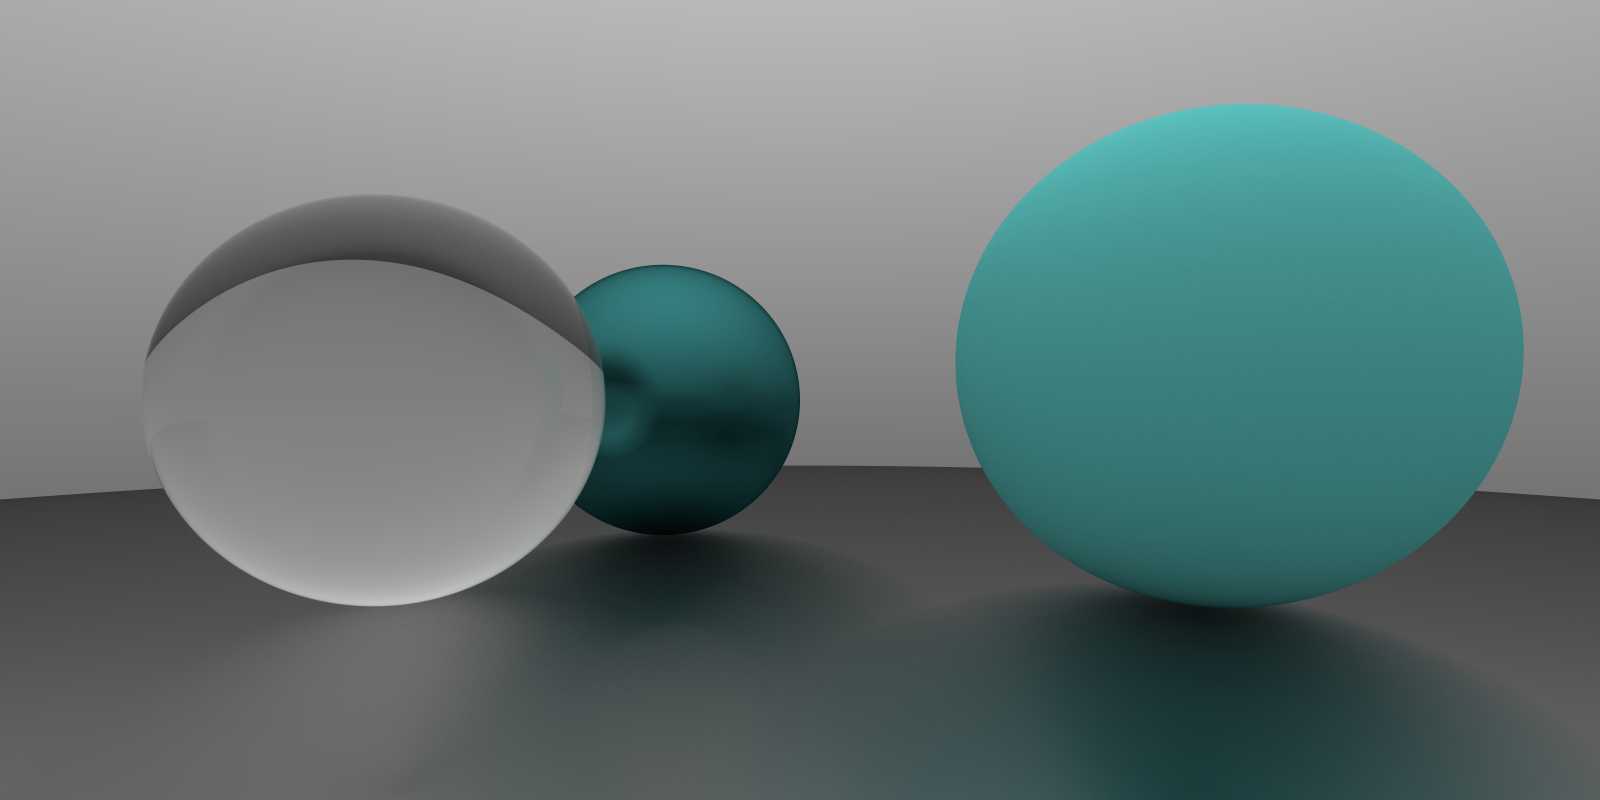
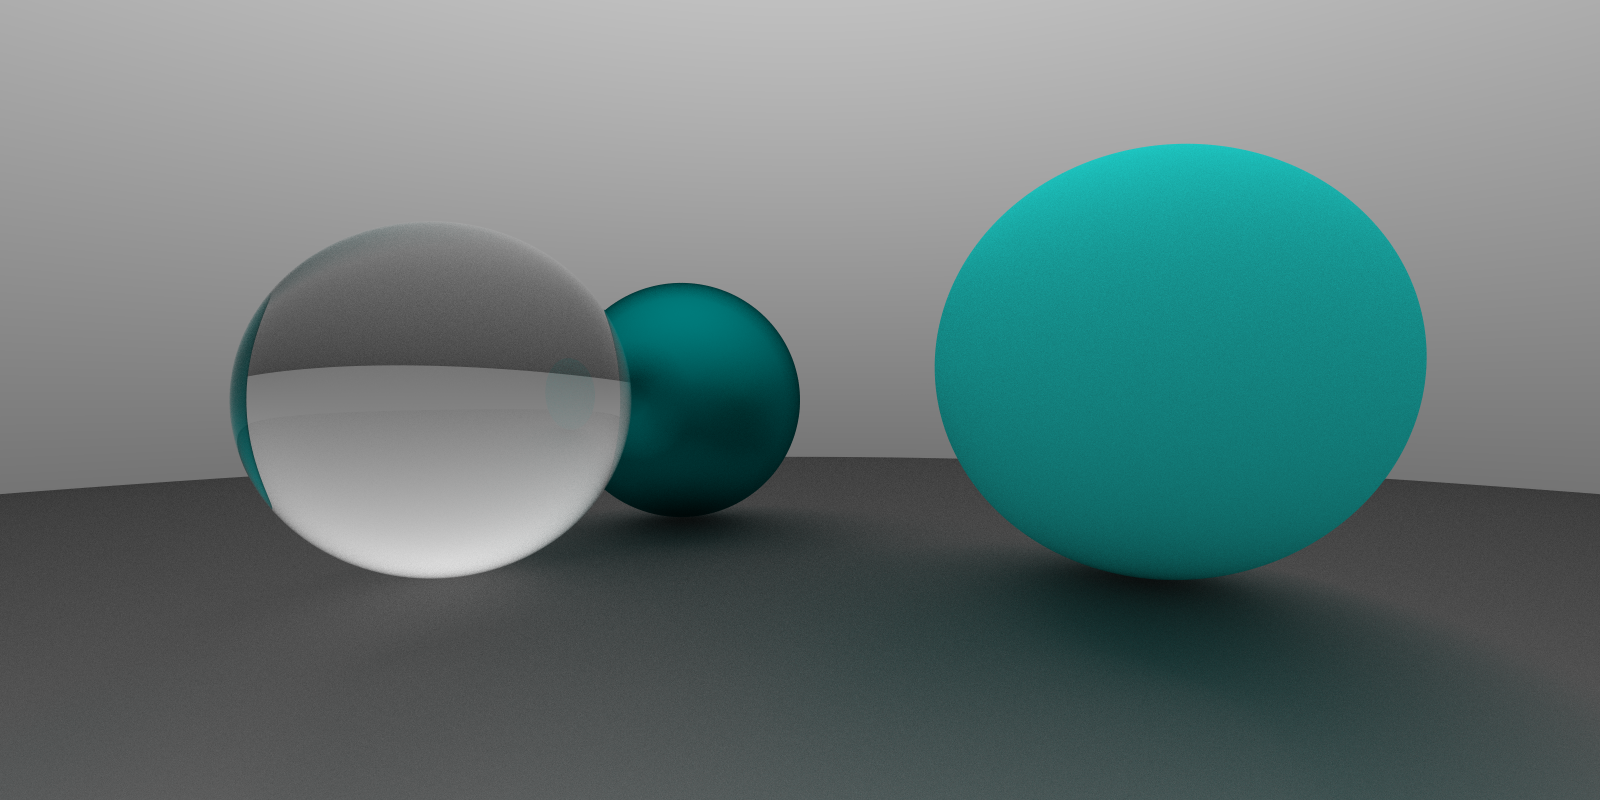
update: 十分钟学会光线追踪

diff --git a/blog/tec/2020-12/两天实现光线追踪 5 - 其他/index.md b/blog/tec/2020-12/两天实现光线追踪 5 - 其他/index.md
@@ -133,11 +133,153 @@ export default class Plane implements Hitable {
 
 ### 景深与光圈
 
-// TODO
+最后实现的功能是散焦模糊 (Defocus Blur), 也被称作是*景深*. 摄像机的散焦会受到物距与光圈大小的影响, 不在镜头焦点上的物体会有一定的模糊, 我们可以近似地模拟这种现象.
+
+![](./210323150701.png)
+
+由上图可知, 弥散的程度与光圈大小和焦距有关. 我们新增两个属性: `aspect` 和 `focusDist` 分别来表示这两个量. 后者则默认取一半 `origin` 和 `lookto` 之间的距离.
+
+我们先放一个生成平面单位圆内随机向量的函数在这里, 待会要用到:
+
+```ts
+// get a Vec(a, b, 0) that: a ∈ (-1, 1) && b ∈ (-1, 1) & a^2 + b^2 < 1
+function randomInUnitDist(): Vec3 {
+  while (true) {
+    let p = (new Vec3(Math.random(), Math.random(), 0)).mul(2).sub(new Vec3(1, 1, 0))
+    if (Vec3.dot(p, p) < 1) return p;
+  }
+};
+```
+
+我们没有必要去完全模拟真实的镜头内部 (况且我们成像都是在镜头前侧成的), 只要能模拟成像效果即可. 在之前的模型中, 我们的光线是从一个点发出的, 现在我们改一下, 让光线从一个圆发出.
+
+另外, 之前的成像屏是在一个固定的位置 (可以回去看看旧的 `Camera` 的 `getRay` 方法实现), 现在我们为了偷懒, 直接把成像屏放在 `lookto` 处. 然后给光线的方向添加随机扰动, 全部代码如下:
+
+```ts
+export default class Camera {
+  origin: Vec3;
+  vertical: Vec3;
+  horizontal: Vec3;
+  leftBottom: Vec3;
+
+  lensRadius:number
+  focusDist:number
+
+  front: Vec3; // w
+  right: Vec3; // u
+  up: Vec3; // v
+
+  constructor(origin: Vec3, lookto: Vec3, vup: Vec3, vfov: number, aspect = 2, aperture:number, focuDist?: number) {
+    const θ = (vfov * Math.PI) / 180;
+    const harfHeight = Math.tan(θ / 2);
+    const harfWidth = harfHeight * aspect;
+
+    this.front = lookto.sub(origin).unitVec();
+    this.right = Vec3.cross(this.front, vup).unitVec();
+    this.up = Vec3.cross(this.right, this.front).unitVec();
+
+    this.origin = origin;
+    this.lensRadius = aperture / 2;
+    this.focusDist = focuDist ? focuDist : origin.sub(lookto).length();
+    this.vertical = this.up.mul((harfHeight * 2) * this.focusDist);
+    this.horizontal = this.right.mul((harfWidth * 2) * this.focusDist);
+    this.leftBottom = origin
+    .sub(this.vertical.mul(0.5))
+    .sub(this.horizontal.mul(0.5))
+    .add(this.front.mul(this.focusDist));
+  }
+
+  getRay(x: number, y: number): Ray {
+    const rd  = randomInUnitDist().mul(this.lensRadius)
+    const offset = this.right.mul(rd.e0).add(this.up.mul(rd.e1))
+
+    return new Ray(
+      this.origin.add(offset),
+      this.leftBottom
+        .add(this.horizontal.mul(x))
+        .add(this.vertical.mul(y))
+        .sub(this.origin)
+        .sub(offset)
+    );
+  }
+}
+```
+
+![](./210323195401.png)
 
 ### 最终效果图实现
 
-//TODO
+为保证不同 worker 里随机数的一致性, 我们使用自己的随机函数:
+
+```ts
+function random(seed: number) {
+  return parseFloat(`0.${ Math.sin(seed).toString().substr(6)}`);
+}
+```
+
+之后创建一个场景.
+
+```ts
+function createSence(): Hitable {
+  const list: Hitable[] = new Array(20)
+    .fill(0)
+    .map((v, _a) =>
+      new Array(20).fill(0).map((v, _b) => {
+        const a = _a - 11;
+        const b = _b - 11;
+        const choose_mat = random(a * 310 + b);
+        const center = new Vec3(a + 0.9 * random(a * 311 + b), 0.2, b + 0.9 * random(a * 312 + b));
+        if (center.sub(new Vec3(4, 0.2, 0)).length() > 0.9) {
+          if (choose_mat < 0.4) {
+            return new Sphere(
+              center,
+              0.2,
+              new Lambertian(
+                new Vec3(
+                  random(a * 313 + b) * random(a * 314 + b),
+                  random(a * 315 + b) * random(a * 316 + b),
+                  random(a * 317 + b) * random(a * 318 + b)
+                )
+              )
+            );
+          } else if (choose_mat < 0.7) {
+            return new Sphere(
+              center,
+              0.2,
+              new Metal(
+                new Vec3(0.5 * random(a * 319 + b), 0.5 * (1 + random(a * 320 + b)), 0.5 * (1 + random(a * 321 + b))),
+                0.5 * (1 + random(a * 322 + b))
+              )
+            );
+          } else {
+            return new Sphere(center, 0.2, new Dielectric(new Vec3(1, 1, 1), 1.5));
+          }
+        }
+      })
+    )
+    .reduce((a, b) => a.concat(b))
+    .filter(i => i);
+
+  list.push(new Sphere(new Vec3(4, 1, 0), 1, new Metal(new Vec3(0.7, 0.6, 0.5), 0)));
+  list.push(new Sphere(new Vec3(-4, 1, 0), 1, new Lambertian(new Vec3(0.4, 0.2, 0.1))));
+  list.push(new Sphere(new Vec3(0, 1, 0), 1, new Dielectric(new Vec3(1, 1, 1), 1.5)));
+  list.push(new Sphere(new Vec3(0, -1000, 0), 1000, new Lambertian(new Vec3(0.5, 0.5, 0.5))));
+
+  return new HitList(list);
+}
+
+const world = createSence();
+```
+
+再放一个摄像机(我不喜欢景深, 在这里没有开)
+
+```ts
+const camera = new Camera(new Vec3(9, 1.1, 2), new Vec3(0, 0.6, -1), new Vec3(0, 1, 0), 30, 2, 0);
+```
+
+这样效果图就渲染出来了:
+
+![](../十分钟学会光线追踪/demo.png)
 
 ## 历史记录
 

diff --git a/blog/tec/2020-12/十分钟学会光线追踪/index.md b/blog/tec/2020-12/十分钟学会光线追踪/index.md
@@ -97,7 +97,9 @@ categories: [技术, 计算机图形学]
 
 光线追踪的原理异常简单, 用几句话就可以说清楚. 因此实现一个自己的渲染器也是件非常轻松的事 (相比于传统渲染), 如果不考虑性能的话.
 
-有许多教程, 但其中最新手友好的还是 *Peter Shirley* 的 *[Ray Tracing in One Weekend](https://od.acdzh.com/Books/Computer/CG/Ray%20Tracing%20in%20One%20Weekend.pdf)* 这本书(小册子?).  该系列有三本书, 另外两本分别是 *[Ray Tracing: The Next Week](https://od.acdzh.com/Books/Computer/CG/Ray%20Tracing_%20The%20Next%20Week.pdf)* 和 *[Ray Tracing: The Rest Of Your Life](https://od.acdzh.com/Books/Computer/CG/Ray%20Tracing_%20the%20Rest%20of%20Your%20Life.pdf)* (已烂尾). 第一本就是本文的内容, 教你如何从零开始写出一个玩具型的渲染器.
+有许多教程, 但其中最新手友好的还是 *Peter Shirley* 的 *Ray Tracing in One Weekend* 这本书(小册子?).  该系列有三本书, 另外两本分别是 *Ray Tracing: The Next Week* 和 *Ray Tracing: The Rest Of Your Life* (已烂尾). 第一本就是本文的内容, 教你如何从零开始写出一个玩具型的渲染器.
+
+这三本书可以在 https://github.com/RayTracing/raytracing.github.io 找到.
 
 这一系列也有许多翻译和推荐的文章, 以及其他语言的实现.
 

diff --git a/blog/tec/2020-12/两天实现光线追踪 4 - 折射/index.md b/blog/tec/2020-12/两天实现光线追踪 4 - 折射/index.md
@@ -167,7 +167,7 @@ const schlick = (cosine: number, refractivity: number): number => {
     }
   }
 ```
-效果如下, 注意透明球的右侧的绿色反光以及那一圈反光.
+效果如下, 注意透明球的右侧的绿色反光. (后来发现这里有错误, 这两张图是在后面更新摄像机实现后重新渲染的, 因此视角与前面稍有不一致)
 
 ![](./210318170001.png)
 
@@ -180,3 +180,4 @@ const schlick = (cosine: number, refractivity: number): number => {
 |Version| Action|Time|
 |:-------:|:--------:|:-----------:|
 |1.0|Init|2021-03-18 16:44:19|
+|1.1|修正菲涅耳方程效果示意图|2021-03-23 17:34:31|

diff --git a/blog/tec/2020-12/两天实现光线追踪 1 - 准备工作/index.md b/blog/tec/2020-12/两天实现光线追踪 1 - 准备工作/index.md
@@ -16,6 +16,8 @@ categories: [技术, 计算机图形学]
 
 接上文 [十分钟学会光线追踪](/tec/2020-12/ray_tracing_in_10_minutes/)
 
+该系列是 *Peter Shirley* 的 *[Ray Tracing in One Weekend](https://raytracing.github.io/books/RayTracingInOneWeekend.html)* 一书的 typescript 实现, 实现过程中参考了一些 https://zhuanlan.zhihu.com/p/42218384 的代码, 感谢.
+
 ## 准备工作
 
 ### 页面结构

diff --git a/blog/tec/2020-12/两天实现光线追踪 2 - 坐标系与形状/index.md b/blog/tec/2020-12/两天实现光线追踪 2 - 坐标系与形状/index.md
@@ -147,7 +147,7 @@ export default class Ray {
 
   constructor(origin: Vec3, direction: Vec3) {
     this.origin = origin;
-    this.direction = direction;
+    this.direction = direction.unitVec();
   }
 
   getPoint(t: number) {
